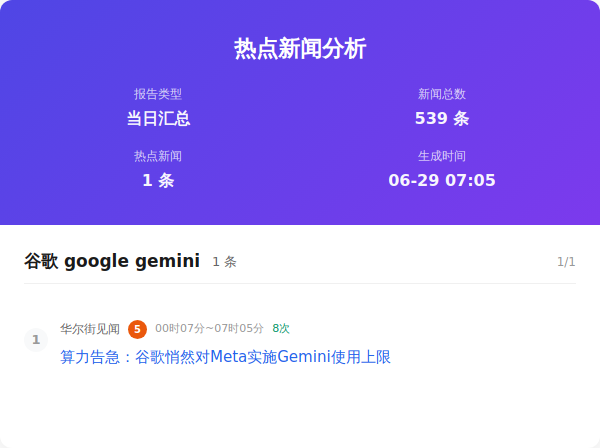
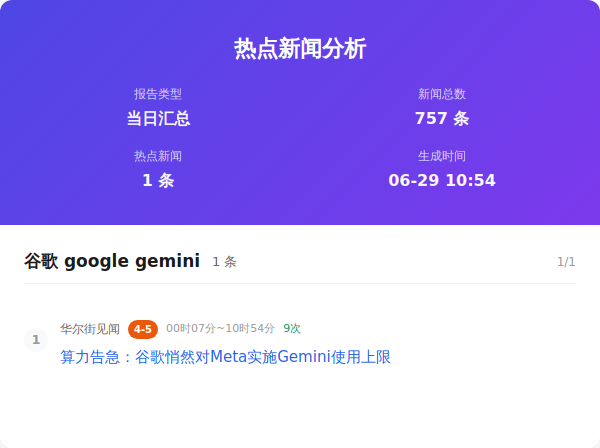
Auto update by GitHub Actions at Mon Jun 29 10:55:00 CST 2026

Changed region(s): [[0.21, 0.7188, 0.51, 0.7812], [0.72, 0.375, 0.84, 0.4375], [0.69, 0.25, 0.75, 0.2812]]

diff --git a/output/2026年06月29日/html/当日汇总.html b/output/2026年06月29日/html/当日汇总.html
@@ -357,7 +357,7 @@
                     </div>
                     <div class="info-item">
                         <span class="info-label">新闻总数</span>
-                        <span class="info-value">539 条</span>
+                        <span class="info-value">757 条</span>
                     </div>
                     <div class="info-item">
                         <span class="info-label">热点新闻</span>
@@ -365,7 +365,7 @@
                     </div>
                     <div class="info-item">
                         <span class="info-label">生成时间</span>
-                        <span class="info-value">06-29 07:05</span>
+                        <span class="info-value">06-29 10:54</span>
                     </div>
                 </div>
             </div>
@@ -383,7 +383,7 @@
                         <div class="news-number">1</div>
                         <div class="news-content">
                             <div class="news-header">
-                                <span class="source-name">华尔街见闻</span><span class="rank-num high">5</span><span class="time-info">00时07分~07时05分</span><span class="count-info">8次</span>
+                                <span class="source-name">华尔街见闻</span><span class="rank-num high">4-5</span><span class="time-info">00时07分~10时54分</span><span class="count-info">9次</span>
                             </div>
                             <div class="news-title"><a href="https://wallstreetcn.com/articles/3775694" target="_blank" class="news-link">算力告急：谷歌悄然对Meta实施Gemini使用上限</a>
                             </div>